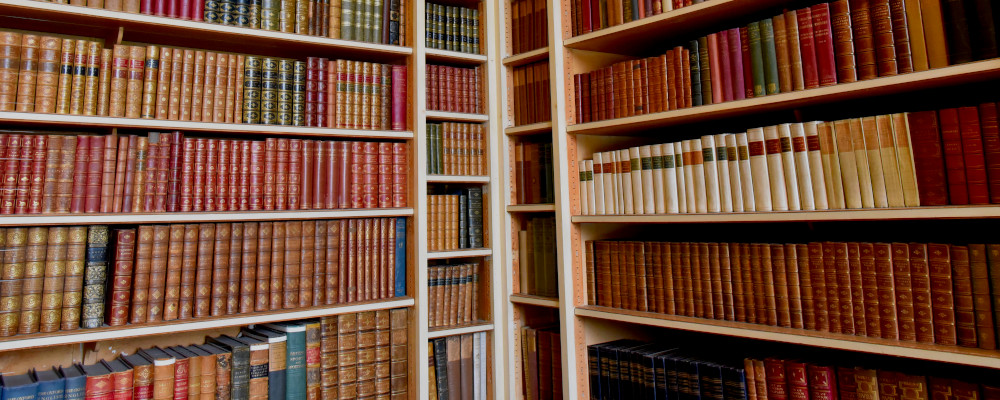
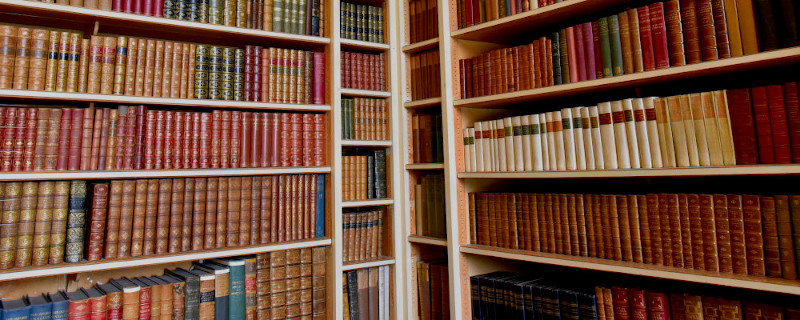
Fix for the image of the Plan Your Vacation and Newsletter which were displayed too big.

Changed region(s): [[0.1875, 0.5312, 0.2188, 0.5625]]

diff --git a/index.html b/index.html
@@ -52,7 +52,6 @@
             <figure>
                 <img src="images/home_main.jpg" alt="Photo of Harry, Hermione, Ron and Professor Dumbledore" />
             </figure>
-<!--            <div style="opacity: 0.5; background-image: linear-gradient(red, yellow);"></div>-->
             <section class="flex_column gradient_bkg">
                 <h1>Enter the magic world of Harry Potter</h1>
                 <h2>Immerse yourself in the magic and, through Augmented and Virtual Reality, live the most unforgettable experience you've ever had</h2>

diff --git a/css/stylesheet.css b/css/stylesheet.css
@@ -41,7 +41,7 @@ h2{
 
 h3{
     font-family: 'Ubuntu', sans-serif;
-    font-size: 3rem;
+    font-size: 2.5rem;
     text-transform: uppercase;
     color: orange;
     padding-bottom: 2rem;
@@ -190,7 +190,6 @@ main figure img
     left: 20%;
     transform: translate( -15%, -50% );
     padding: 1rem;
-    /*background: rgba(0,0,0,.5);*/
 
     gap: 1rem;
 }
@@ -215,7 +214,7 @@ main figure img
     gap:1rem;
 
 }
-#aside_section aside figure img
+#aside_section figure img
 {
     width: 100%;
 }
